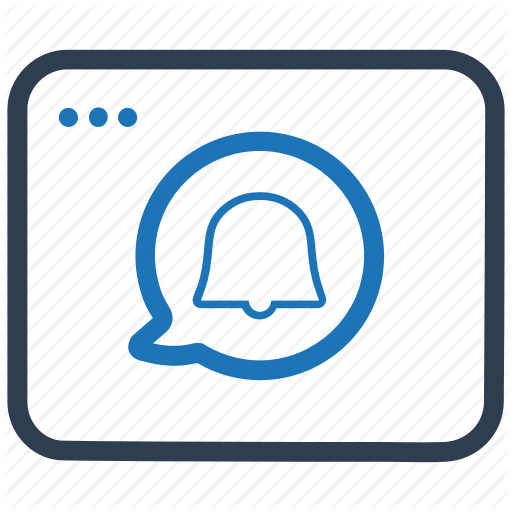
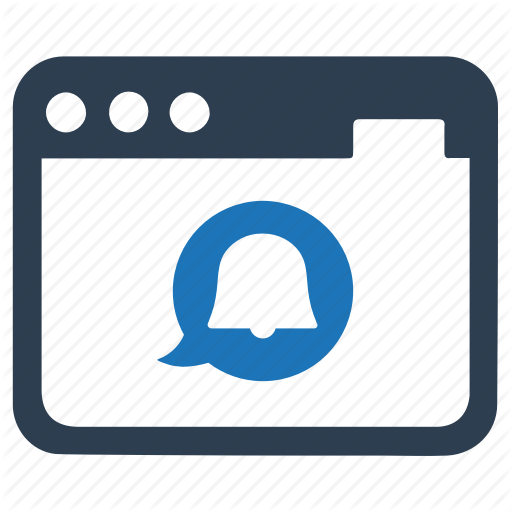
Nuevo icono

diff --git a/public/index.html b/public/index.html
@@ -54,7 +54,7 @@
         </table>
 
         <table title="Variables" style="width:90%;" align="center">
-            <label id="allowVariables" style="margin-top:20;"></label>
+            <label id="allowVariables" style="margin-top:20;">a</label>
         </table>
         
 
